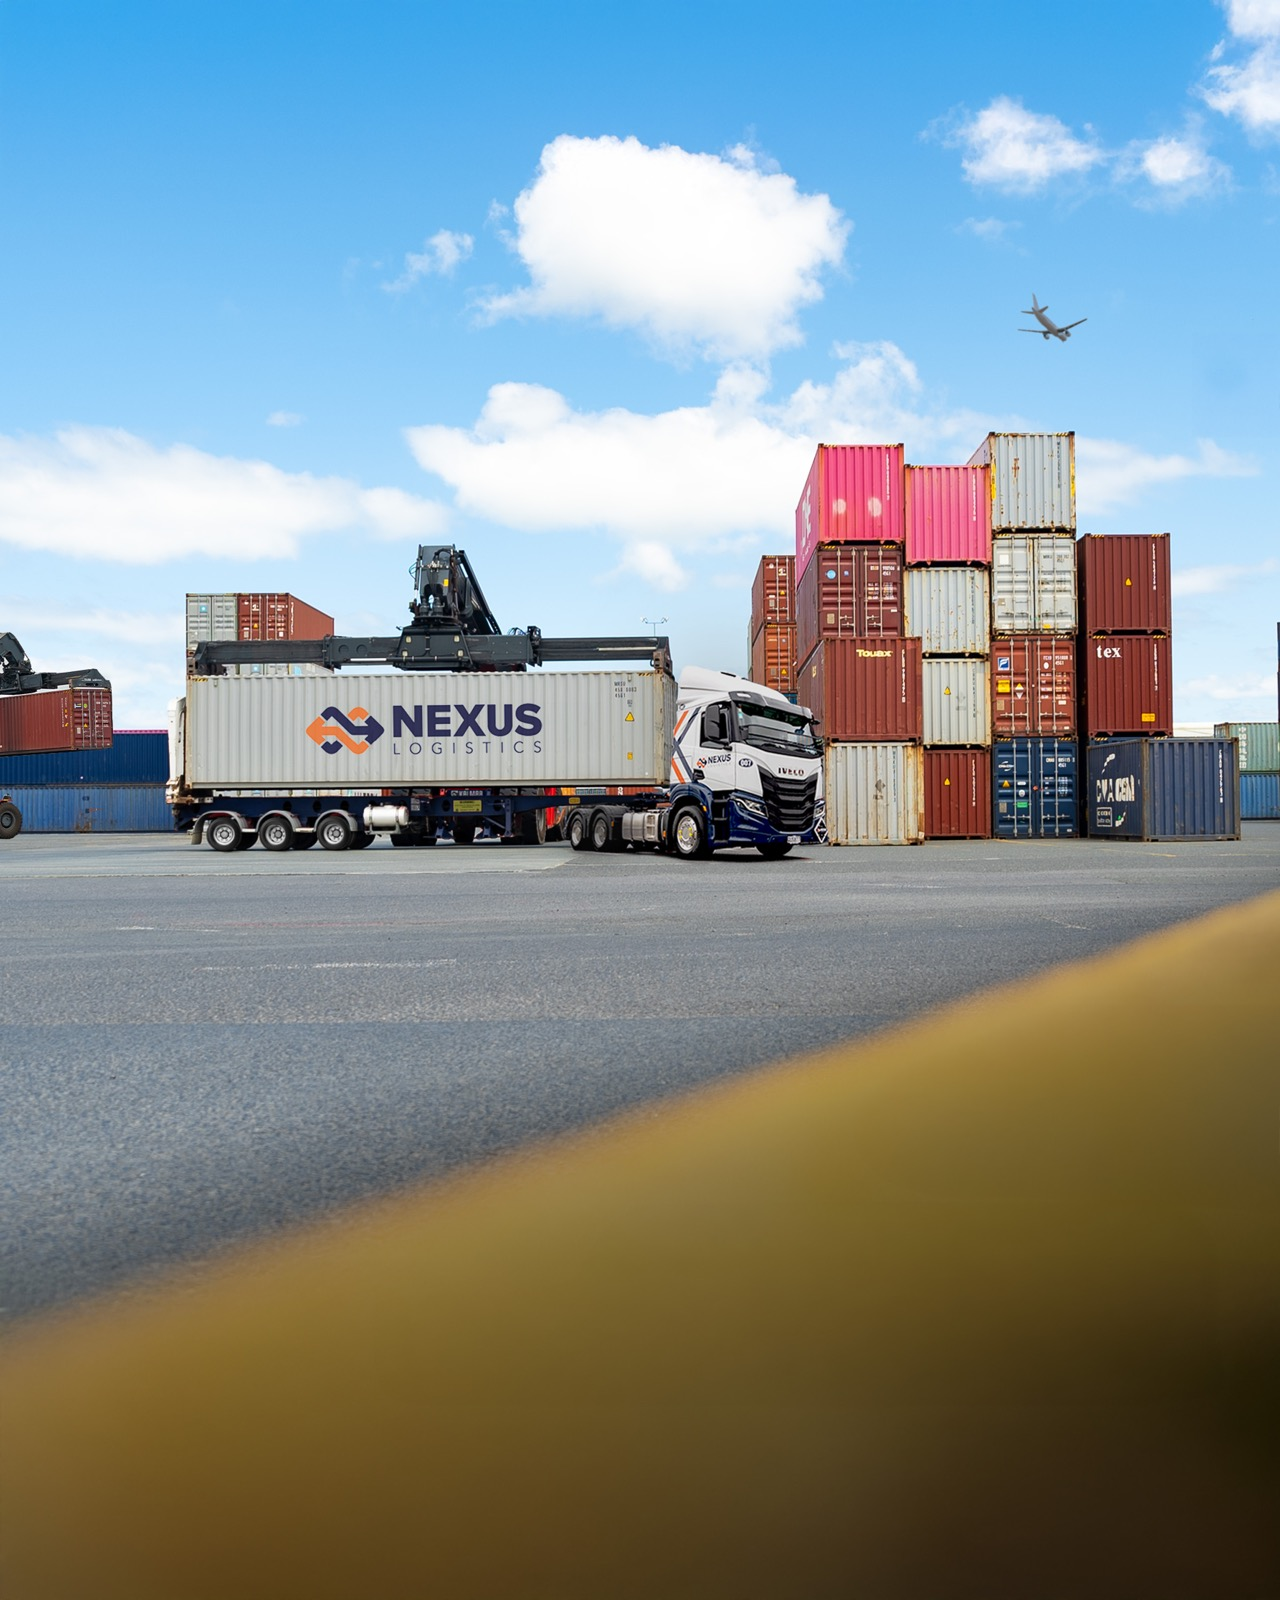
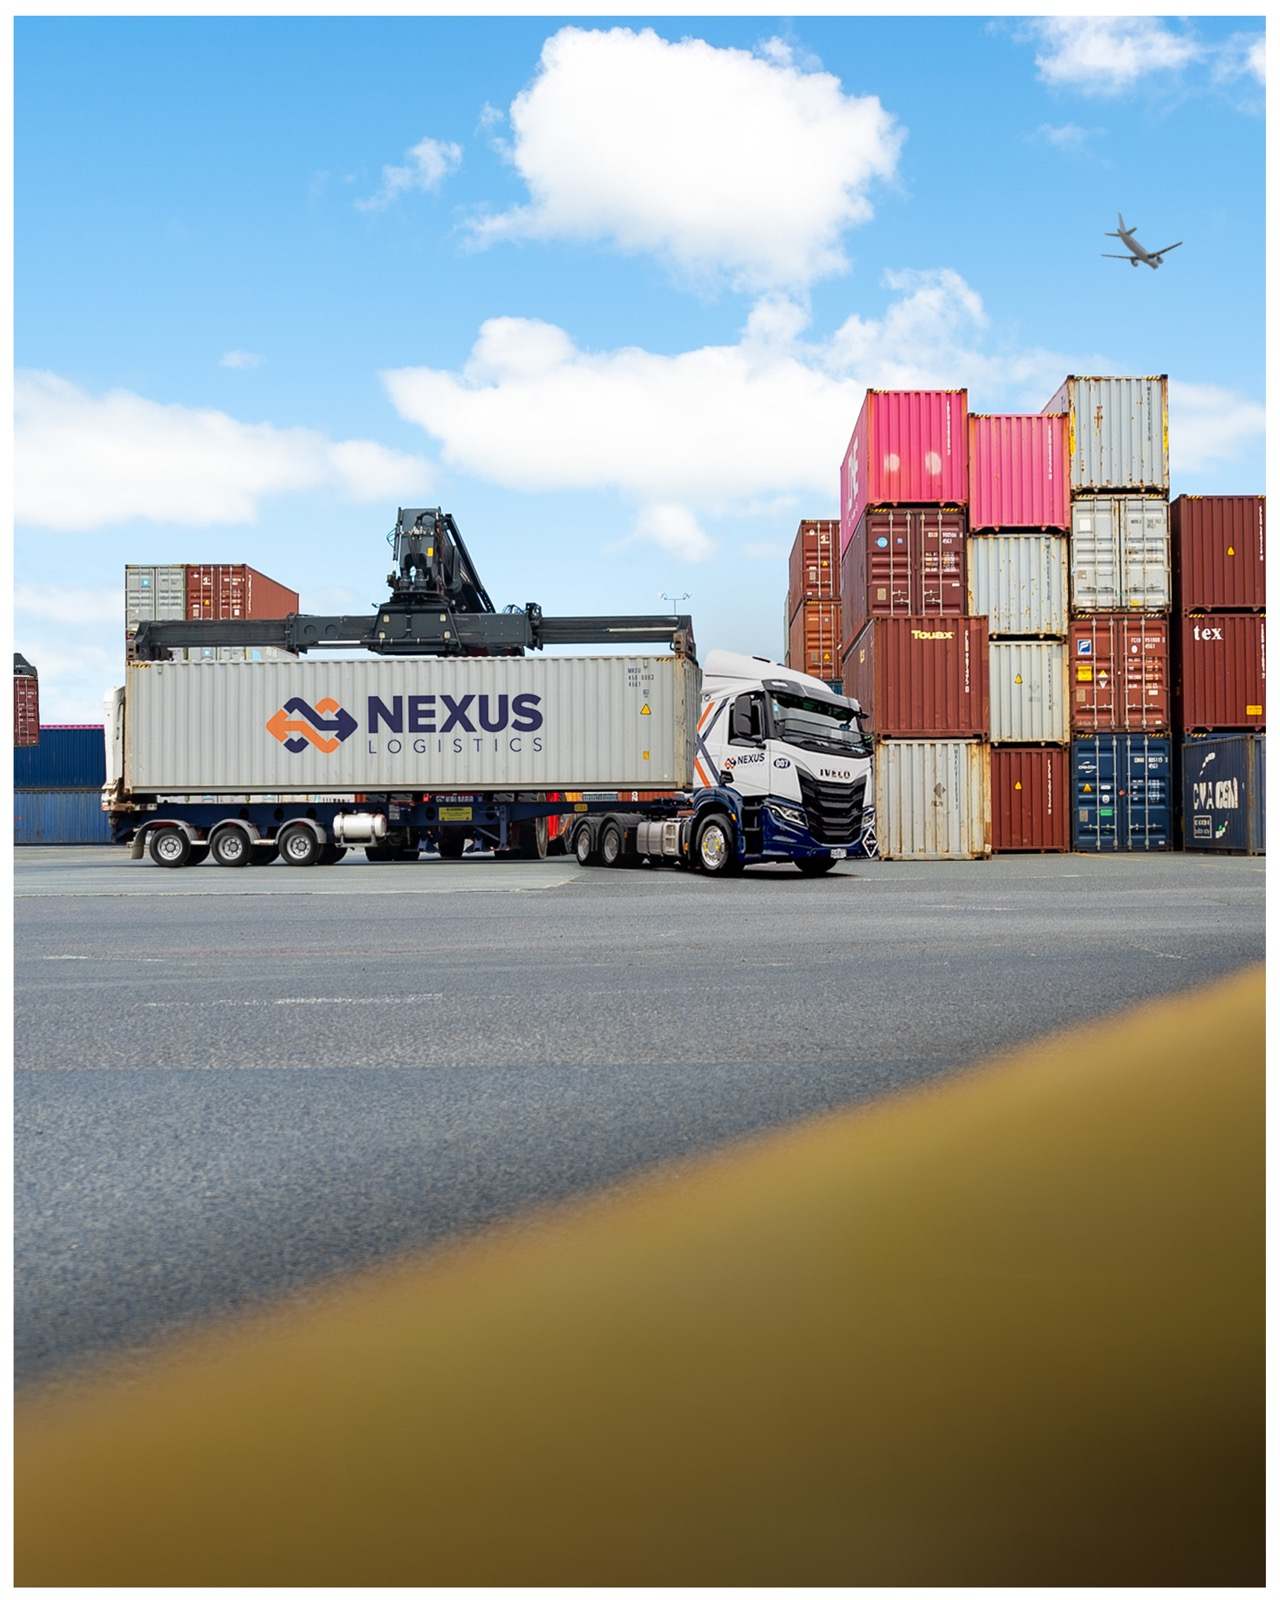
Update Nexus Logistics grid image with new homepage shot
Replaces the crane-lifting shot with a Nexus-branded truck at
the yard, plane overhead; alt text updated to match.

diff --git a/src/lib/work.ts b/src/lib/work.ts
@@ -377,7 +377,7 @@ export const workProjects: WorkProject[] = [
     },
     gridCover: {
       src: "/images/work/nexus-logistics/nexus-logistics-4x5-cover.jpg",
-      alt: "Nexus Logistics branded crane arm lifting a shipping container in the yard",
+      alt: "A Nexus Logistics branded truck parked in the container yard, with a plane overhead",
     },
     gallery: [
       { src: "/images/work/nexus-logistics/nexus-logistics-01.jpg", alt: "Aerial view of the container yard, with rail lines beyond" },
